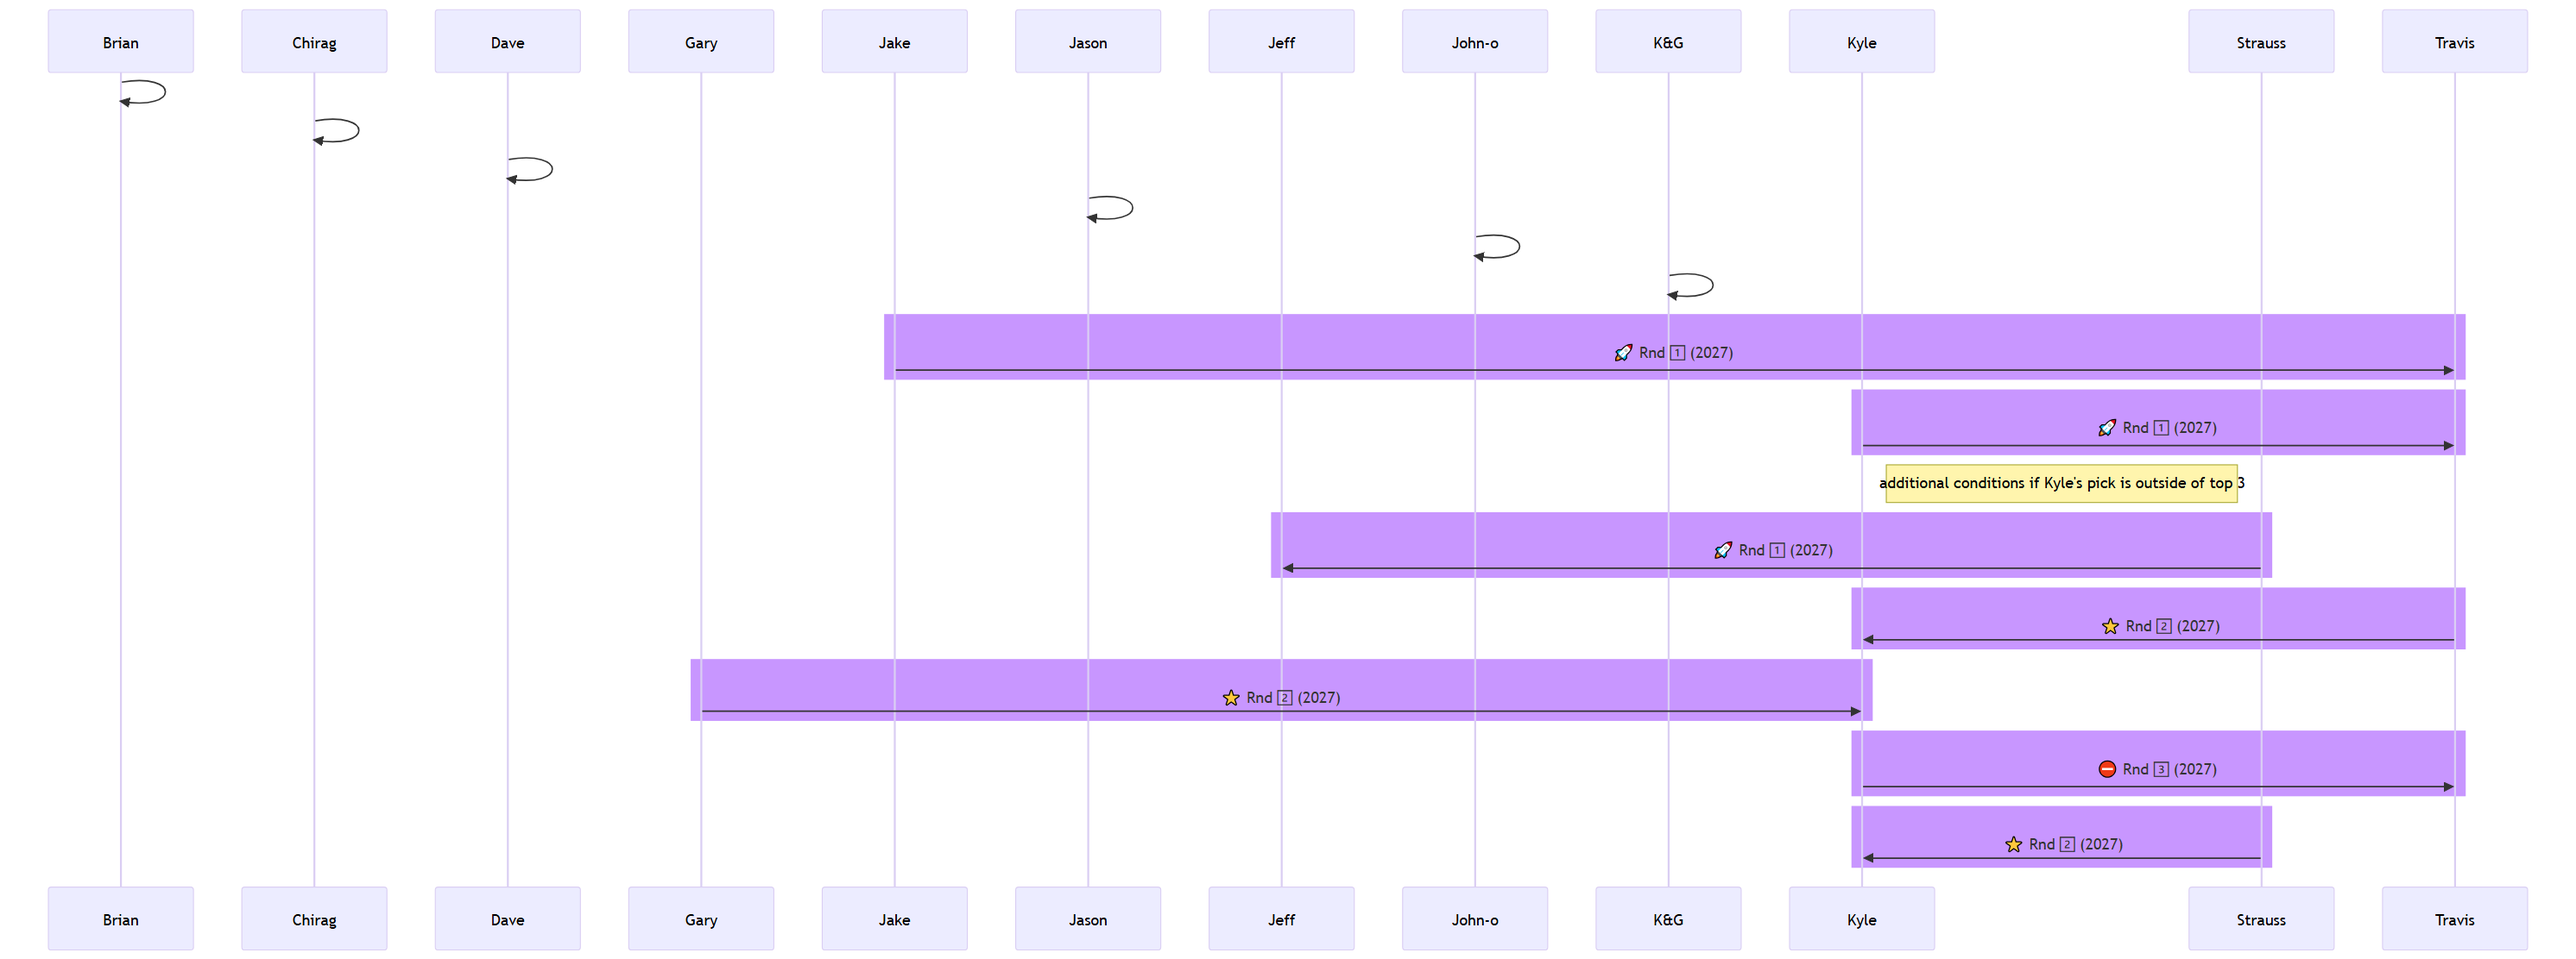
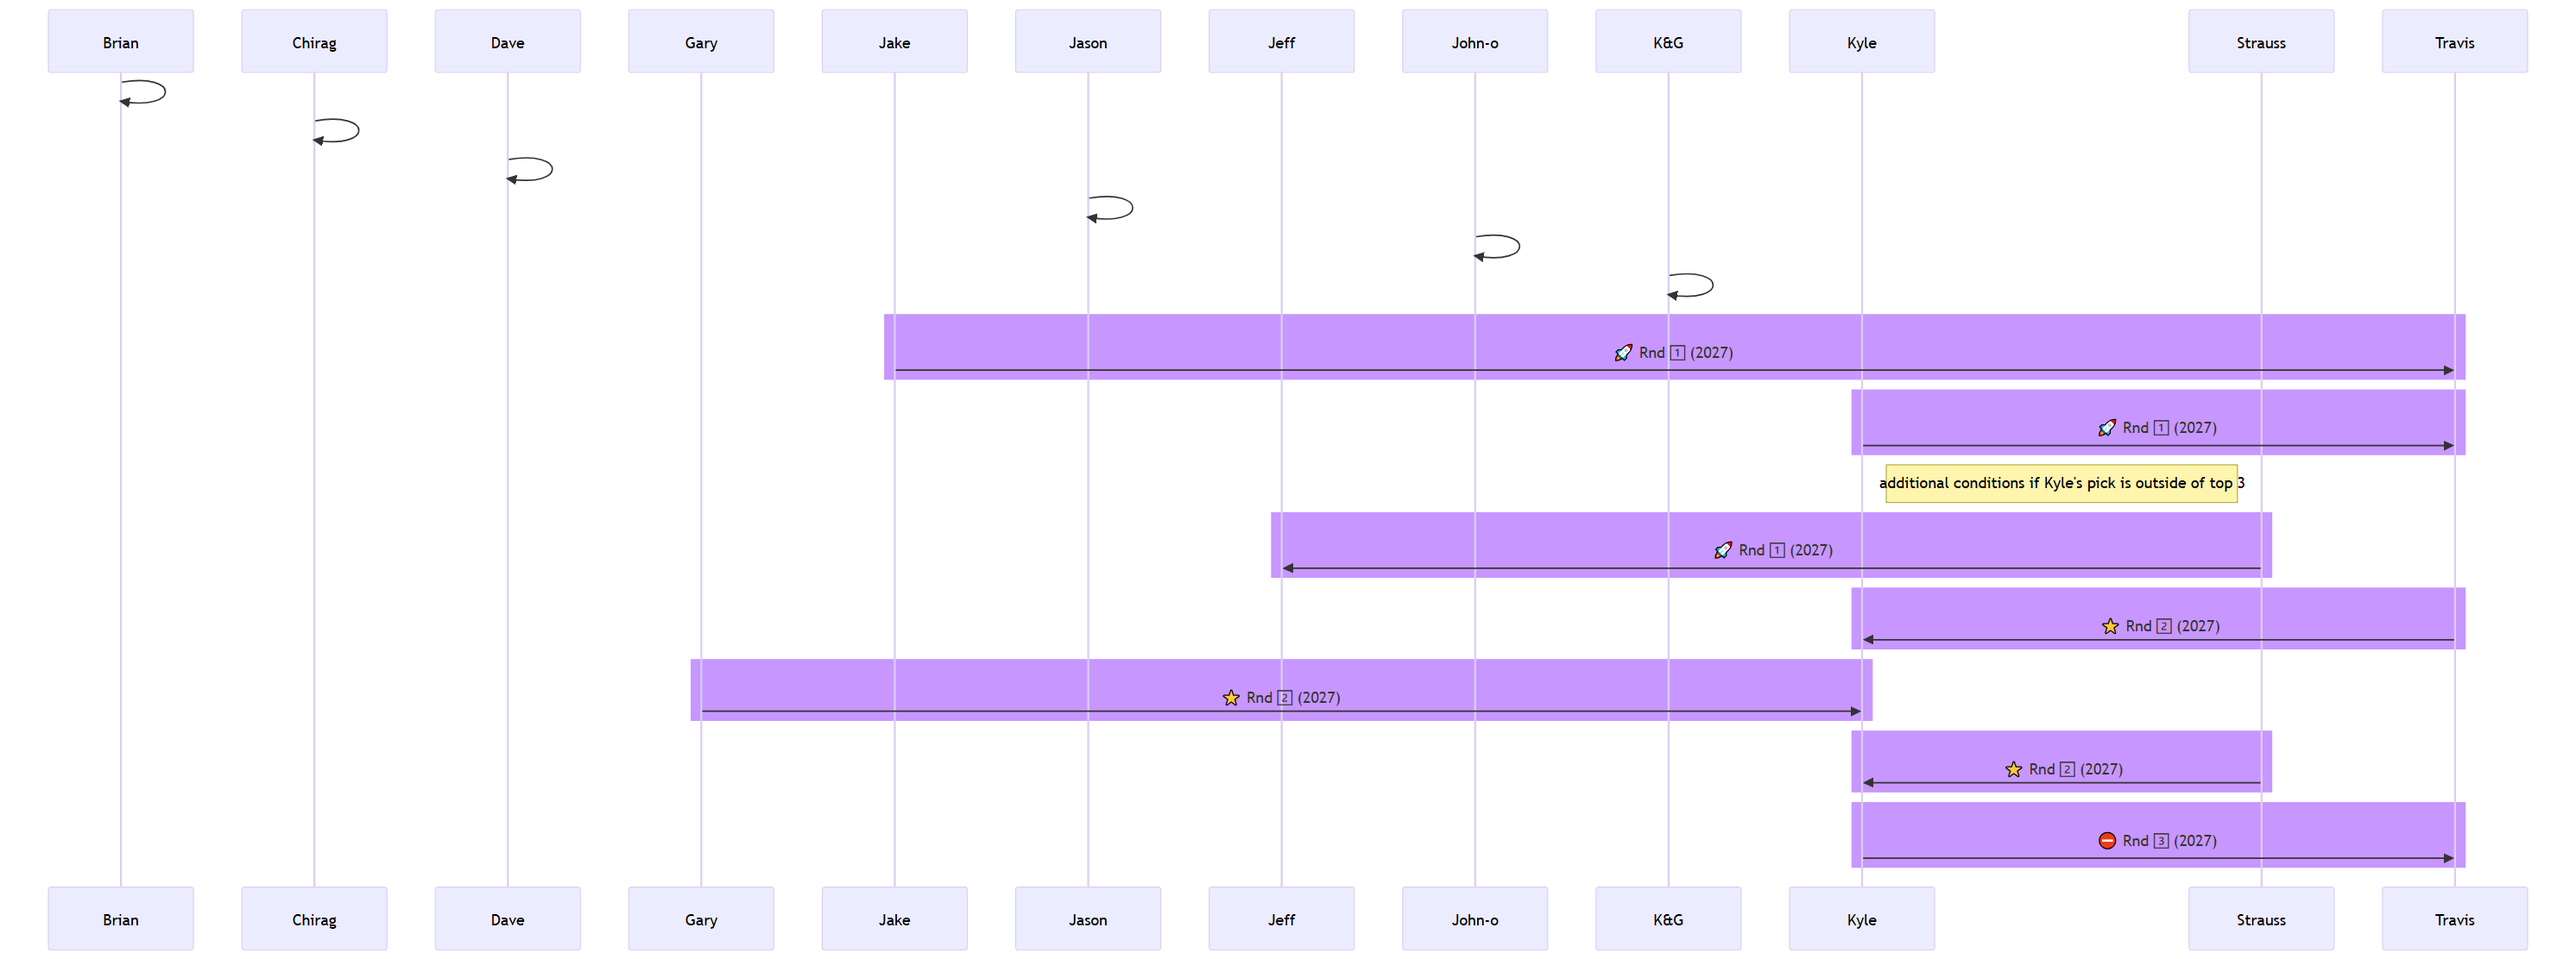
fixing to/from & 2nd round vs 3rd round mermaid placement

Changed region(s): [[0.7168, 0.7644, 0.9662, 0.9173]]

diff --git a/docs/phantazee.html b/docs/phantazee.html
@@ -344,11 +344,11 @@ ul.task-list li input[type="checkbox"] {
 <div id="fig-chord" class="cell-output-display quarto-float quarto-figure quarto-figure-center anchored">
 <figure class="quarto-float quarto-float-fig figure">
 <div aria-describedby="fig-chord-caption-0ceaefa1-69ba-4598-a22c-09a6ac19f8ca">
-<div class="chorddiag html-widget html-fill-item" id="htmlwidget-34acbb128f2de66e94c5" style="width:100%;height:464px;"></div>
-<script type="application/json" data-for="htmlwidget-34acbb128f2de66e94c5">{"x":{"matrix":[[0,1,2,0,0,0,0,2,0,0,0,0],[0,0,1,0,0,0,0,0,0,0,0,0],[3,0,0,0,0,0,0,1,2,0,0,0],[0,0,0,0,0,0,0,0,0,0,0,0],[0,0,0,0,0,0,0,0,0,0,0,0],[0,2,0,0,0,0,0,0,0,0,0,0],[0,0,0,0,0,0,0,0,0,0,0,0],[2,0,0,0,0,0,0,0,0,0,0,0],[0,0,2,0,0,0,0,0,0,0,0,0],[0,0,0,0,0,0,0,0,0,0,0,0],[0,0,0,0,0,0,0,0,0,0,0,0],[0,0,0,0,0,0,0,0,0,0,0,0]],"options":{"type":"directional","width":null,"height":null,"margin":100,"showGroupnames":true,"groupNames":["Travis","Strauss","Kyle","K&G","John-o","Jeff","Jason","Jake","Gary","Dave","Chirag","Brian"],"groupColors":["#1B9E77","#D95F02","#7570B3","#E7298A","#66A61E","#E6AB02","#A6761D","#666666"],"groupThickness":0.1,"groupPadding":0.03490658503988659,"groupnamePadding":[20,20,20,20,20,20,20,20,20,20,20,20],"groupnameFontsize":18,"groupedgeColor":null,"chordedgeColor":"#808080","categoryNames":null,"categorynamePadding":100,"categorynameFontsize":28,"showTicks":true,"tickInterval":0.1,"ticklabelFontsize":10,"fadeLevel":0.1,"showTooltips":true,"showZeroTooltips":true,"tooltipNames":["Travis","Strauss","Kyle","K&G","John-o","Jeff","Jason","Jake","Gary","Dave","Chirag","Brian"],"tooltipFontsize":12,"tooltipUnit":"","tooltipGroupConnector":" &#x25B6; ","precision":"null","clickAction":null,"clickGroupAction":null}},"evals":[],"jsHooks":[]}</script>
+<div class="chorddiag html-widget html-fill-item" id="htmlwidget-448e79707170abb5764f" style="width:100%;height:464px;"></div>
+<script type="application/json" data-for="htmlwidget-448e79707170abb5764f">{"x":{"matrix":[[0,0,3,0,0,0,0,2,0,0,0,0],[1,0,1,0,0,2,0,0,0,0,0,0],[2,0,0,0,0,0,0,0,2,0,0,0],[0,0,0,0,0,0,0,0,0,0,0,0],[0,0,0,0,0,0,0,0,0,0,0,0],[0,0,0,0,0,0,0,0,0,0,0,0],[0,0,0,0,0,0,0,0,0,0,0,0],[2,1,0,0,0,0,0,0,0,0,0,0],[0,0,2,0,0,0,0,0,0,0,0,0],[0,0,0,0,0,0,0,0,0,0,0,0],[0,0,0,0,0,0,0,0,0,0,0,0],[0,0,0,0,0,0,0,0,0,0,0,0]],"options":{"type":"directional","width":null,"height":null,"margin":100,"showGroupnames":true,"groupNames":["Travis","Strauss","Kyle","K&G","John-o","Jeff","Jason","Jake","Gary","Dave","Chirag","Brian"],"groupColors":["#1B9E77","#D95F02","#7570B3","#E7298A","#66A61E","#E6AB02","#A6761D","#666666"],"groupThickness":0.1,"groupPadding":0.03490658503988659,"groupnamePadding":[20,20,20,20,20,20,20,20,20,20,20,20],"groupnameFontsize":18,"groupedgeColor":null,"chordedgeColor":"#808080","categoryNames":null,"categorynamePadding":100,"categorynameFontsize":28,"showTicks":true,"tickInterval":0.1,"ticklabelFontsize":10,"fadeLevel":0.1,"showTooltips":true,"showZeroTooltips":true,"tooltipNames":["Travis","Strauss","Kyle","K&G","John-o","Jeff","Jason","Jake","Gary","Dave","Chirag","Brian"],"tooltipFontsize":12,"tooltipUnit":"","tooltipGroupConnector":" &#x25B6; ","precision":"null","clickAction":null,"clickGroupAction":null}},"evals":[],"jsHooks":[]}</script>
 </div>
 <figcaption class="quarto-float-caption-bottom quarto-float-caption quarto-float-fig" id="fig-chord-caption-0ceaefa1-69ba-4598-a22c-09a6ac19f8ca">
-Figure&nbsp;1: Total drapht pick trades (2026–) Chord diagram
+Figure&nbsp;1: Total drapht pick trades (2026–)
 </figcaption>
 </figure>
 </div>

diff --git a/docs/discography.html b/docs/discography.html
@@ -355,8 +355,8 @@ ul.task-list li input[type="checkbox"] {
 <h2 class="anchored" data-anchor-id="songs-played">Songs played</h2>
 <div class="cell">
 <div class="cell-output-display">
-<div class="datatables html-widget html-fill-item" id="htmlwidget-b487932e4d39d2ddc3d2" style="width:100%;height:auto;"></div>
-<script type="application/json" data-for="htmlwidget-b487932e4d39d2ddc3d2">{"x":{"filter":"none","vertical":false,"data":[["Peter Gunn Theme","Sharp Dressed Man","Workin' Man Blues","Night of the Living Chimichanga","Hot Tub","Tight Pants","Mary had a Little Lamb","Folsom Prison","Color of Her Eyes","Stuck in the Middle with You","Eastbound &amp; Down","Cream","Keep your Hands to Yourself","Fast as You"],[" Henry Mancini","ZZ Top","Merle Haggard","The Crawlers","Kitty Wampas","Howard &amp; the White Boys"," Stevie Ray Vaughn"," Johnny Cash"," Gear Daddies"," Stealers Wheel"," Jerry Reed"," Prince"," Georgia Satelites"," Dwight Yoakam"]],"container":"<table class=\"display\">\n  <thead>\n    <tr>\n      <th>Song<\/th>\n      <th>Band<\/th>\n    <\/tr>\n  <\/thead>\n<\/table>","options":{"pageLength":5,"lengthMenu":[5,10,15,20,25],"columnDefs":[{"name":"Song","targets":0},{"name":"Band","targets":1}],"order":[],"autoWidth":false,"orderClasses":false}},"evals":[],"jsHooks":[]}</script>
+<div class="datatables html-widget html-fill-item" id="htmlwidget-b2867dfb7e62e7779916" style="width:100%;height:auto;"></div>
+<script type="application/json" data-for="htmlwidget-b2867dfb7e62e7779916">{"x":{"filter":"none","vertical":false,"data":[["Peter Gunn Theme","Sharp Dressed Man","Workin' Man Blues","Night of the Living Chimichanga","Hot Tub","Tight Pants","Mary had a Little Lamb","Folsom Prison","Color of Her Eyes","Stuck in the Middle with You","Eastbound &amp; Down","Cream","Keep your Hands to Yourself","Fast as You"],[" Henry Mancini","ZZ Top","Merle Haggard","The Crawlers","Kitty Wampas","Howard &amp; the White Boys"," Stevie Ray Vaughn"," Johnny Cash"," Gear Daddies"," Stealers Wheel"," Jerry Reed"," Prince"," Georgia Satelites"," Dwight Yoakam"]],"container":"<table class=\"display\">\n  <thead>\n    <tr>\n      <th>Song<\/th>\n      <th>Band<\/th>\n    <\/tr>\n  <\/thead>\n<\/table>","options":{"pageLength":5,"lengthMenu":[5,10,15,20,25],"columnDefs":[{"name":"Song","targets":0},{"name":"Band","targets":1}],"order":[],"autoWidth":false,"orderClasses":false}},"evals":[],"jsHooks":[]}</script>
 </div>
 </div>
 </section>
